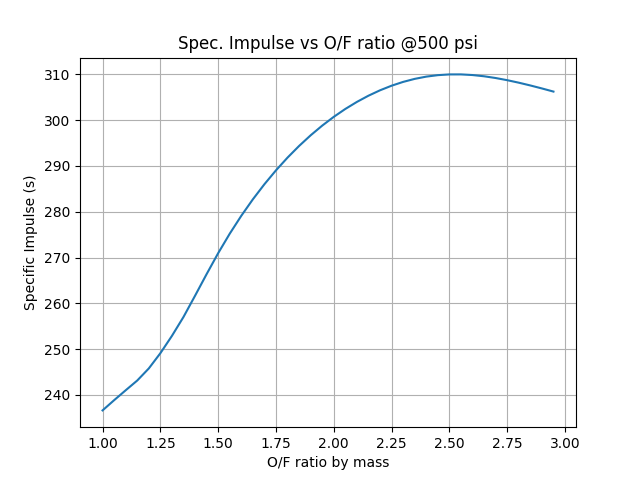
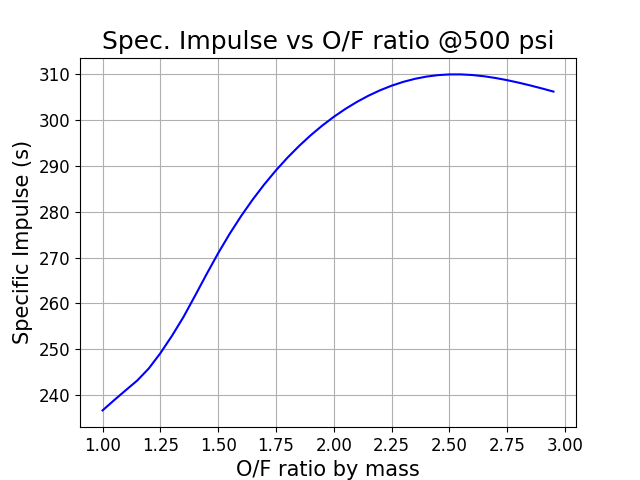
reformatting plots

diff --git a/TCA/TCA Sizing Code Files/Final_Graphing_Script.py b/TCA/TCA Sizing Code Files/Final_Graphing_Script.py
@@ -71,10 +71,12 @@ for mr in mr_range:
     Eps = C.get_eps_at_PcOvPe(Pc = pc, MR = mr, PcOvPe= (pc / pe))  #Optimal Nozzle Expansion Ratio for inputs
     Isp_vals[count] = C.get_Isp(Pc = pc, MR = mr, eps = Eps) #Calculates specific impulse (s) for given inputs
     count = count + 1
-plt.plot(mr_range, Isp_vals)
-plt.xlabel("O/F ratio by mass")
-plt.ylabel("Specific Impulse (s)")
-plt.title(f"Spec. Impulse vs O/F ratio @{pc} psi")
+plt.plot(mr_range, Isp_vals, 'b')
+plt.xlabel("O/F ratio by mass", fontsize = 15)
+plt.ylabel("Specific Impulse (s)", fontsize = 15)
+plt.title(f"Spec. Impulse vs O/F ratio @{pc} psi", fontsize = 18)
+plt.tick_params(axis='x', labelsize=12)
+plt.tick_params(axis='y', labelsize=12)
 plt.grid()
 
 plt.savefig(r"TCA\CEA Graphs\Specific_Impulse_Target_psi.png")
@@ -103,10 +105,12 @@ count = 0
 for mr in mr_range:
     Comb_Ts[count] = C.get_Tcomb(Pc = pc, MR = mr) * rankineToKelvin   #Outputs combustion temperature in Rankine, converts to Fahrenheit
     count = count + 1
-plt.plot(mr_range, Comb_Ts)
-plt.xlabel("O/F ratio by mass")
-plt.ylabel("Combustion Temperature (F)")
-plt.title(f"Combustion Temperature vs O/F ratio @{pc} psi")
+plt.plot(mr_range, Comb_Ts, 'r')
+plt.xlabel("O/F ratio by mass", fontsize = 15)
+plt.ylabel("Combustion Temperature (K)", fontsize = 15)
+plt.title(f"Combustion Temperature vs O/F ratio @{pc} psi", fontsize = 18)
+plt.tick_params(axis='x', labelsize=12)
+plt.tick_params(axis='y', labelsize=12)
 plt.grid()
 
 plt.savefig(r"TCA\CEA Graphs\Combustion_Temps_Target_psi.png")
@@ -122,7 +126,7 @@ for p in range(pLo, pHi):
         count = count + 1
     plt.plot(mr_range, Comb_Ts, label = f'Chamber pressure = {po} psia')
 plt.xlabel("O/F ratio by mass")
-plt.ylabel("Combustion Temperature (F)")
+plt.ylabel("Combustion Temperature (K)")
 plt.title("Combustion Temps vs O/F ratio")
 plt.grid()
 plt.legend()
